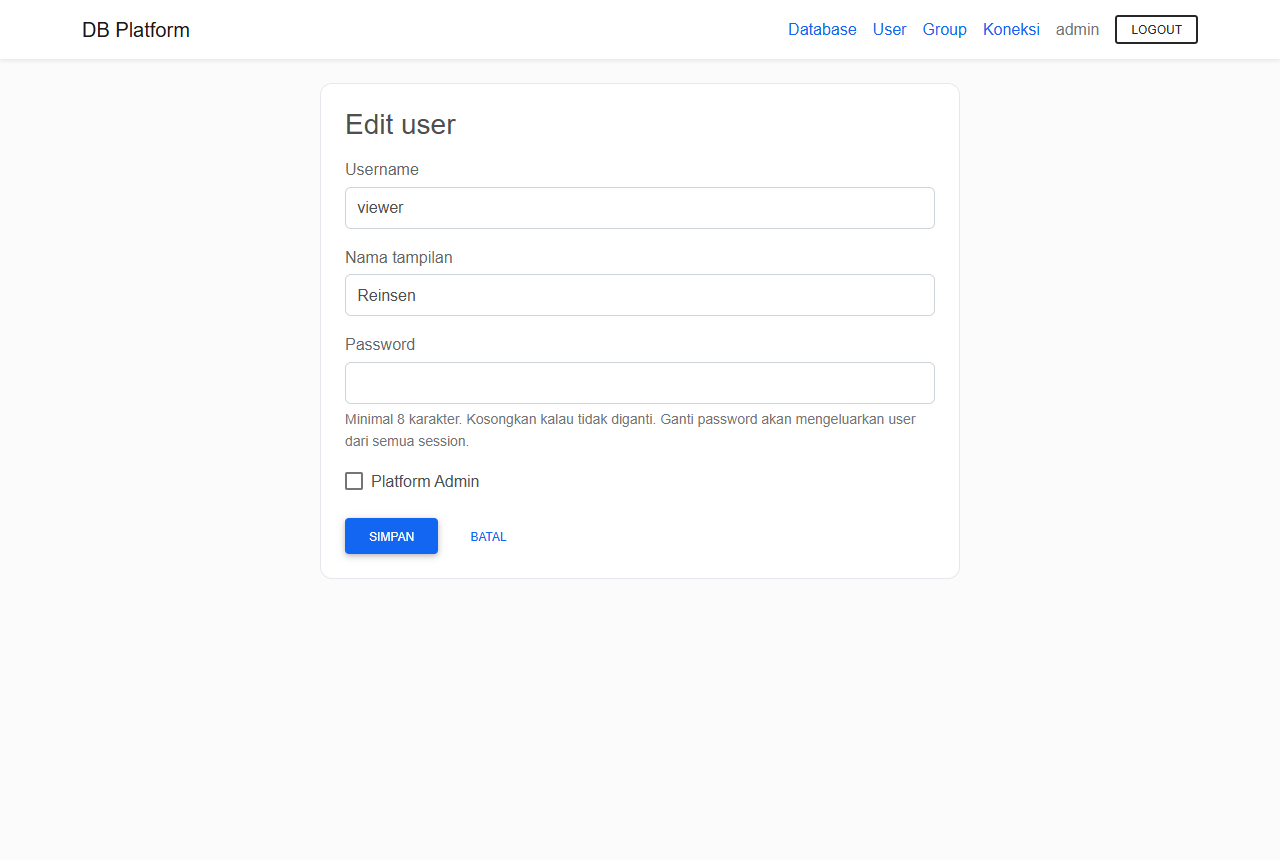
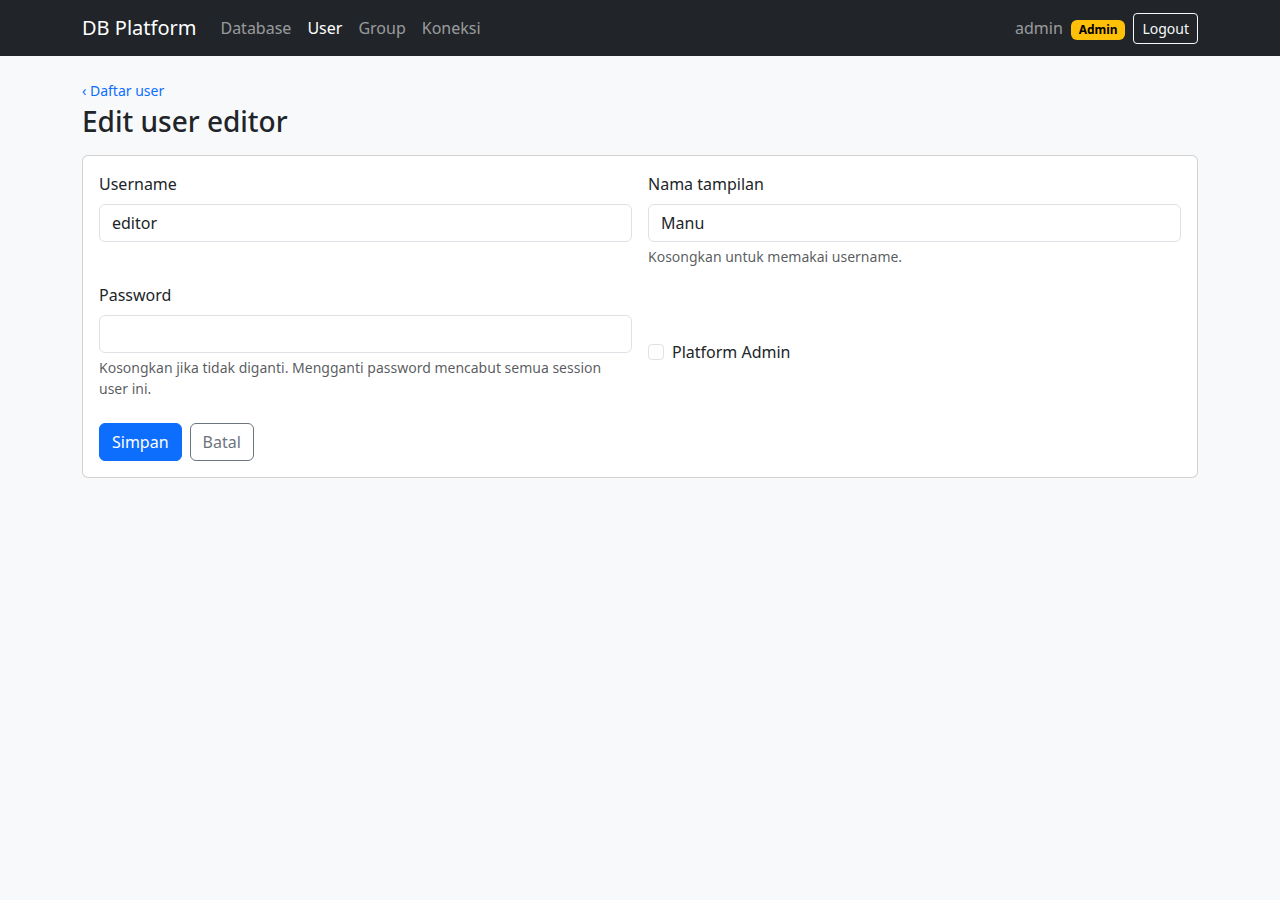
docs: ganti screenshot dan dokumentasi README ke tampilan SPA

diff --git a/README.md b/README.md
@@ -118,8 +118,8 @@ Saat mengembangkan frontend, jalankan `npm run dev` di folder `frontend` lalu bu
 Koneksi contoh tidak dimasukkan ke seed karena password-nya harus dienkripsi dengan kunci masing-masing. Sebagai admin:
 
 1. Buka **Koneksi**, klik **Tambah koneksi**, lalu isi: nama `target-db`, host `localhost`, port `5432`, database `target_db`, username `postgres`, password `postgres`, SSL mode `disable`.
-2. Buka koneksi yang baru dibuat, lalu klik **Uji koneksi tersimpan** untuk memeriksanya.
-3. Buka **Group**, pilih **analyst**, lalu **Akses database**, dan berikan akses `target-db` dengan tingkat `view`.
+2. Klik **Uji koneksi** pada koneksi yang baru dibuat untuk memeriksanya.
+3. Buka **Group**, pilih **analyst**, lalu di bagian **Akses database** pilih `target-db` dengan tingkat `view` dan klik **Beri akses**.
 4. Lakukan hal yang sama untuk **developer** dengan tingkat `edit`.
 
 User demo sekarang dapat login dengan password `demo12345`:
@@ -135,6 +135,10 @@ Satu browser hanya dapat login sebagai satu user dalam satu waktu, karena semua 
 
 ## Documentation
 
+Tampilan aplikasi berupa SPA React yang berkomunikasi dengan server Go lewat API JSON. Setiap halaman memakai layout responsif dan menampilkan keadaan loading, kosong, error, dan akses ditolak. Tombol yang mengubah data dinonaktifkan selama request berjalan supaya tidak terkirim dua kali.
+
+![Tampilan di layar HP](screenshots/mobile.png)
+
 ### Login
 
 ![Login](screenshots/login.png)
@@ -145,19 +149,19 @@ Halaman login berisi input username dan password. Username tidak membedakan huru
 
 ![Daftar database](screenshots/databases.png)
 
-Halaman ini hanya menampilkan database aktif yang dapat diakses pengguna melalui group-nya. Database tanpa pemberian akses tidak muncul, dan membukanya langsung lewat URL menghasilkan 403.
+Halaman ini hanya menampilkan database aktif yang dapat diakses pengguna melalui group-nya, beserta tingkat aksesnya. Database tanpa pemberian akses tidak muncul, dan membukanya langsung lewat URL menghasilkan pesan akses ditolak.
 
-### Ringkasan Database
+### Struktur Database
 
-![Ringkasan database](screenshots/database.png)
+![Struktur database](screenshots/schema.png)
 
-Halaman ringkasan menampilkan database yang dipilih beserta tautan ke viewer schema dan daftar migration.
+Setiap database punya empat tab: Struktur, Migration, Request, dan History. Tab Struktur menampilkan daftar schema dan tabel pada database target. Jika database sedang ditahan karena migration yang berhenti di tengah, alasannya ditampilkan di atas tab.
 
-### Viewer Schema
+### Struktur Tabel
 
-![Viewer schema](screenshots/schema.png)
+![Struktur tabel](screenshots/table.png)
 
-Pengguna dengan akses View atau Edit dapat menelusuri schema dan tabel pada database target. Untuk setiap tabel, halaman ini menampilkan kolom beserta tipe PostgreSQL dan status nullable, constraint (primary key, foreign key, unique, check), serta index. Nama schema dan tabel divalidasi terhadap database target sebelum query dibuat.
+Untuk setiap tabel ditampilkan kolom beserta tipe PostgreSQL dan status nullable, constraint (primary key, foreign key, unique, check), serta index. Nama schema dan tabel divalidasi terhadap database target sebelum query dibuat.
 
 ### Data Tabel
 
@@ -169,55 +173,79 @@ Isi tabel ditampilkan dengan pagination. Ukuran halaman dibatasi di server, sehi
 
 ![Daftar migration](screenshots/migrations.png)
 
-Halaman ini menampilkan seluruh migration pada database beserta status (draft, running, success, atau failed) dan version-nya. Pengguna dengan akses View hanya dapat membaca daftar; tombol buat migration hanya muncul untuk pengguna dengan akses Edit, dan backend tetap memeriksa izin pada setiap request.
+Migration adalah definisi berisi SQL up dan SQL down. Daftar ini menampilkan mode (normal atau batch), penanda irreversible dan terkunci, serta posisi migration: belum pernah diterapkan, aktif, sudah di-rollback, atau tergantikan. Posisi dihitung dari riwayat eksekusi yang sukses. Tombol buat migration hanya muncul untuk pengguna dengan akses Edit, dan backend tetap memeriksa izin pada setiap request.
 
 ### Buat dan Edit Migration
 
 ![Buat migration](screenshots/migration-new.png)
 
-Pengguna dengan akses Edit dapat menulis migration berisi judul, deskripsi (opsional), dan SQL yang akan dijalankan. Migration dapat diubah selama masih berstatus draft atau setelah gagal. Migration yang sudah berhasil tidak dapat diubah atau dijalankan ulang.
+Pengguna dengan akses Edit menulis judul, deskripsi (opsional), SQL up, dan SQL down. SQL divalidasi dengan parser PostgreSQL sebelum disimpan. Mode batch memecah perubahan per kelompok ID agar lock tabel singkat; SQL-nya harus berbentuk `UPDATE schema.tabel ... WHERE kolom_key = ANY($1::bigint[])`. Migration yang ditandai irreversible wajib menyertakan alasan dan tidak dapat di-rollback. Definisi dapat diubah selama belum dipakai request; setelah itu definisi dikunci dan perbaikan dibuat sebagai migration baru. Jika definisi sudah diubah orang lain, penyimpanan ditolak supaya perubahan tidak saling menimpa.
 
 ### Detail Migration
 
 ![Detail migration](screenshots/migration-detail.png)
 
-Halaman detail menampilkan SQL migration, status, version yang diperoleh, dan riwayat setiap percobaan eksekusi. Menjalankan migration berarti menjalankan SQL-nya di dalam satu transaction pada database target. Hanya satu eksekusi yang dapat berjalan per database dalam satu waktu, dan setiap eksekusi yang berhasil mendapat nomor version berikutnya.
+Halaman detail menampilkan definisi dan tombol aksi yang berlaku untuk posisi migration saat ini: ajukan up untuk migration yang belum diterapkan, ajukan rollback untuk migration aktif teratas, atau ajukan forward untuk menerapkan ulang migration yang baru di-rollback. Rollback dan forward mengikuti urutan linear, jadi hanya migration teratas yang dapat dibatalkan.
 
-### Hasil Eksekusi
+### Daftar Request
 
-![Hasil eksekusi](screenshots/execution.png)
+![Daftar request](screenshots/requests.png)
 
-Setiap percobaan eksekusi dicatat beserta pelaksana, waktu mulai dan selesai, serta hasilnya. Jika SQL gagal, transaction di-rollback sehingga database target tidak berubah, dan pesan error ditampilkan tanpa membocorkan kredensial koneksi. Migration kemudian dapat diperbaiki lalu dijalankan ulang.
+Menjalankan migration selalu melalui request. Request menyimpan snapshot definisi saat diajukan, sehingga yang di-review leader sama persis dengan yang dijalankan.
+
+### Review dan Approval
+
+![Detail request](screenshots/request-detail.png)
+
+Setelah request di-submit, leader setiap group yang punya akses ke database tersebut memberikan approval atas nama group-nya. Halaman ini menampilkan snapshot SQL yang akan dijalankan dan status approval per group. Request baru dapat dieksekusi setelah semua group menyetujui, dan pengaju menekan tombol eksekusi secara terpisah.
+
+### Job dan Progress
+
+![Job sukses](screenshots/job.png)
+
+Eksekusi berjalan di proses worker terpisah sebagai job. Halaman job memperbarui statusnya otomatis setiap dua detik selama job masih antre atau berjalan, dan berhenti memperbarui saat tab tidak terlihat. Progress dihitung dari row dan batch yang benar-benar sudah di-commit, bukan dari timer.
+
+![Job gagal](screenshots/job-failed.png)
+
+Jika SQL gagal, pesan error dan SQLSTATE ditampilkan tanpa membocorkan kredensial koneksi. Migration batch yang berhenti setelah sebagian batch di-commit berstatus "berhenti di tengah" dan menahan migration lain pada database tersebut sampai job dilanjutkan (resume) atau dikompensasi. Kompensasi menjalankan SQL down hanya untuk batch yang sudah di-commit, dan seperti request lain harus di-review terlebih dahulu. Status yang belum pasti tidak pernah ditampilkan sebagai gagal, dan aplikasi tidak pernah menyarankan menjalankan SQL secara manual.
+
+### History
+
+![History](screenshots/history.png)
+
+History mencatat setiap percobaan eksekusi, termasuk yang gagal dan retry, beserta pelaksana dan waktunya. Opsi Hide rollback menyembunyikan pasangan eksekusi sukses yang sudah di-rollback beserta rollback-nya; kegagalan tetap ditampilkan.
+
+### Detail Eksekusi
+
+![Detail eksekusi](screenshots/execution.png)
+
+Detail eksekusi menampilkan SQL yang benar-benar dijalankan, error jika ada, relasi ke eksekusi yang dibatalkan, dan untuk mode batch, catatan setiap batch berupa cakupan ID, jumlah row, status, dan SQL-nya.
 
 ### Administrasi User
 
 ![Administrasi user](screenshots/users.png)
 
-Platform Admin dapat melihat seluruh akun beserta peran dan statusnya, membuat user baru, serta mengaktifkan atau menonaktifkan akun. Menonaktifkan akun langsung mencabut seluruh session milik akun tersebut.
+Platform Admin dapat melihat seluruh akun beserta peran dan statusnya, membuat user baru, serta mengaktifkan atau menonaktifkan akun. Menonaktifkan akun langsung mencabut seluruh session milik akun tersebut dan melepas jabatan leader group yang dipegangnya.
 
 ### Buat dan Edit User
 
 ![Edit user](screenshots/user-form.png)
 
-Admin dapat mengatur username, nama tampilan, password, dan status Platform Admin. Password disimpan sebagai hash Argon2id dan harus terdiri dari 8 sampai 72 karakter. Username yang sudah dipakai menghasilkan 409. Mengganti password atau mencabut status admin akan mencabut session user tersebut, sedangkan menjadikan user sebagai admin akan merotasi session-nya pada request berikutnya. Admin tidak dapat menonaktifkan akunnya sendiri atau mencabut status adminnya sendiri.
+Admin dapat mengatur username, nama tampilan, password, dan status Platform Admin. Password disimpan sebagai hash Argon2id dan harus terdiri dari 8 sampai 72 karakter. Username yang sudah dipakai ditolak. Mengganti password atau mencabut status admin akan mencabut session user tersebut, sedangkan menjadikan user sebagai admin akan merotasi session-nya pada request berikutnya. Admin tidak dapat menonaktifkan akunnya sendiri atau mencabut status adminnya sendiri.
 
 ### Daftar Group
 
 ![Daftar group](screenshots/groups.png)
 
-Daftar group berisi tautan ke halaman edit setiap group dan pengaturan akses database-nya.
+Daftar group berisi tautan ke halaman detail setiap group.
 
-### Edit Group dan Anggota
+### Detail Group, Anggota, dan Akses Database
 
-![Edit group](screenshots/group-edit.png)
+![Detail group](screenshots/group-detail.png)
 
-Di halaman ini admin dapat mengganti nama group, menambah atau mengeluarkan anggota, dan menghapus group. Menambah anggota menaikkan privilege version anggota tersebut sehingga session-nya dirotasi, sedangkan mengeluarkan anggota atau menghapus group langsung mencabut session pengguna yang terdampak. Menambahkan anggota yang sama dua kali menghasilkan 409.
+Di halaman ini admin mengganti nama dan deskripsi group, menambah atau mengeluarkan anggota, memilih leader, dan mengarsipkan group. Leader harus anggota aktif group tersebut, dan dialah yang memberi approval migration atas nama group. Menambah anggota menaikkan privilege version anggota tersebut sehingga session-nya dirotasi, sedangkan mengeluarkan anggota atau mengarsipkan group langsung mencabut session pengguna yang terdampak.
 
-### Akses Database Group
-
-![Akses database group](screenshots/database-access.png)
-
-Admin memberikan akses View atau Edit ke database aktif kepada sebuah group, mengubah tingkatnya, atau mencabutnya. Memberikan atau menaikkan akses akan merotasi session anggota, sedangkan menurunkan atau mencabut akses akan mencabut session mereka.
+Bagian akses database memberikan akses View atau Edit ke database aktif, mengubah tingkatnya, atau mencabutnya. Memberikan atau menaikkan akses akan merotasi session anggota, sedangkan menurunkan atau mencabut akses akan mencabut session mereka.
 
 ### Daftar Koneksi Database
 
